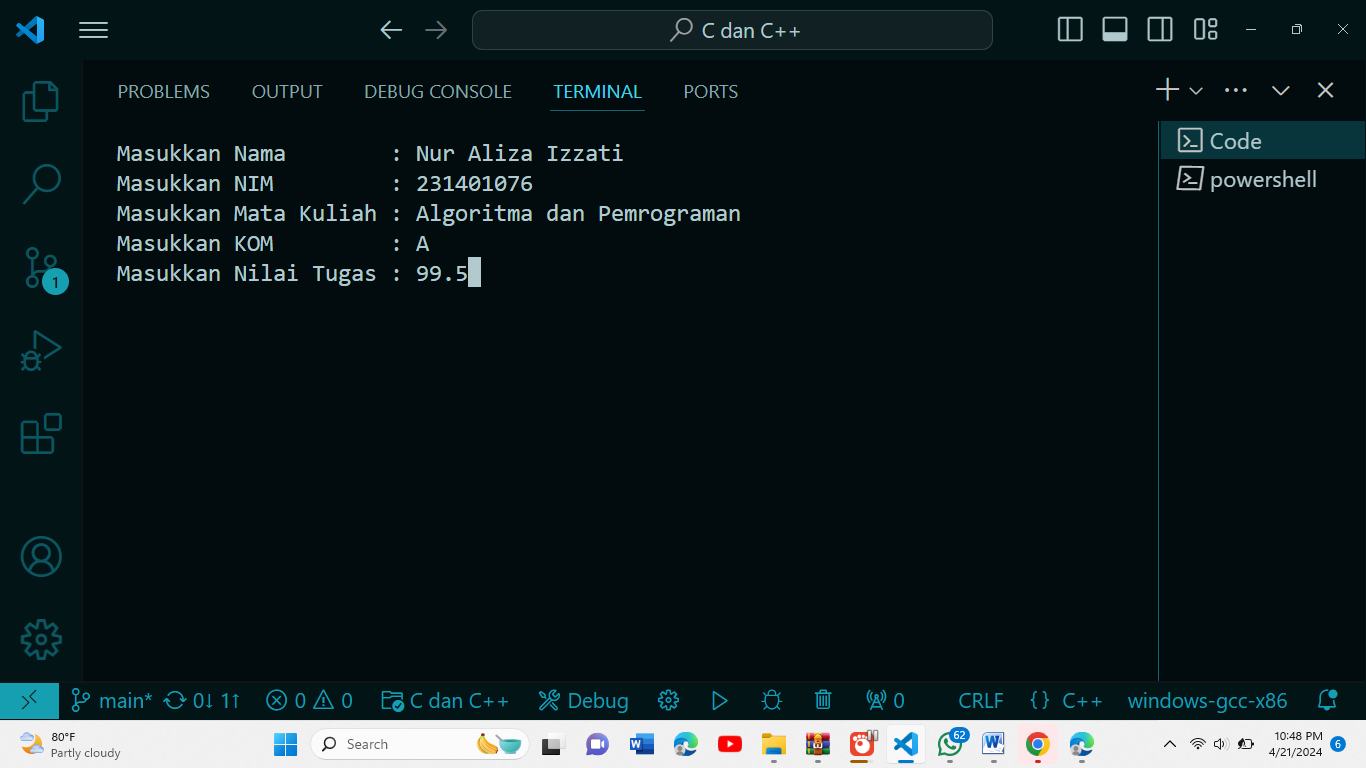
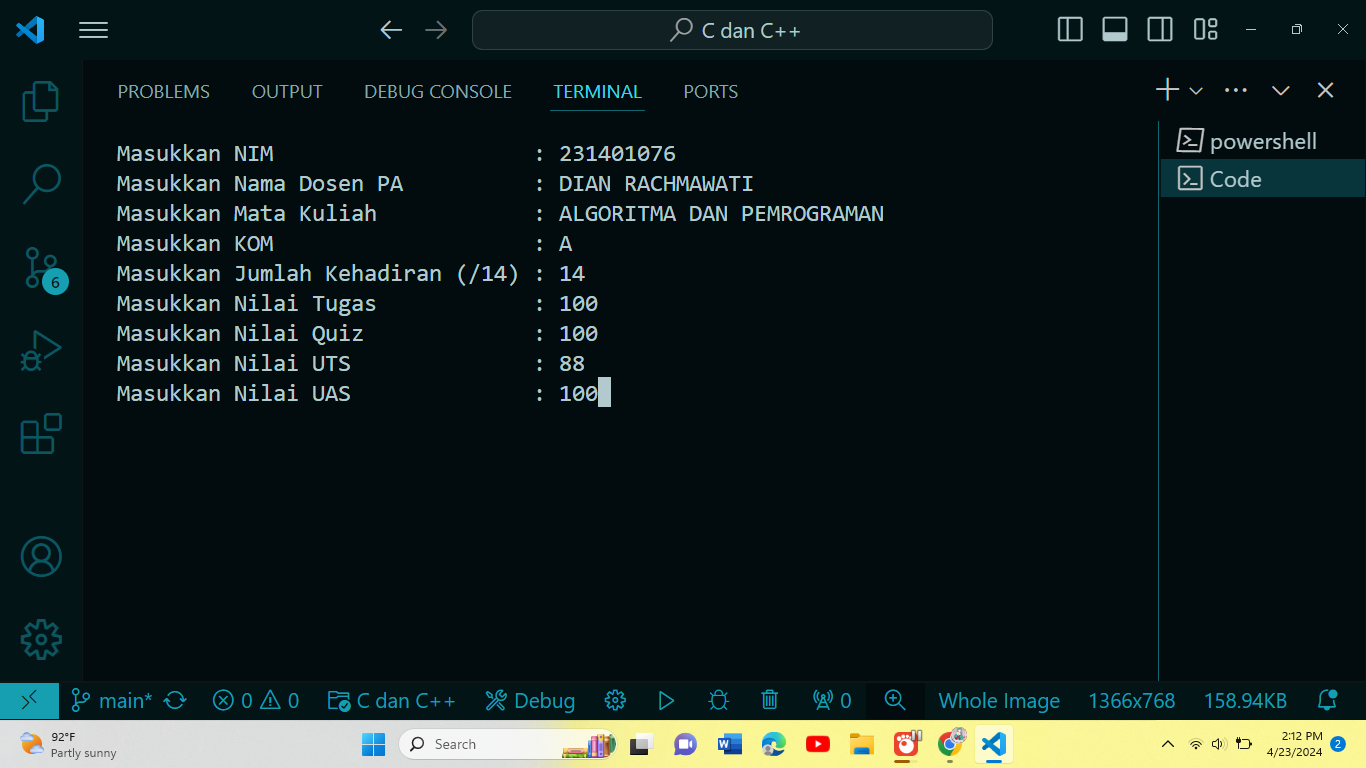
UTS_AP2_[076]

diff --git a/UTS_NO1.cpp b/UTS_NO1.cpp
@@ -4,71 +4,76 @@ using namespace std;
 
 int main()
 {
-    string nama, nilai_dalam_huruf, nim, mata_kuliah;
+    string nama, nilai_dalam_huruf, dosen_pa,  nim, mata_kuliah;
     char kom;
-    float nilai;
+    int hadir;
+    float tugas, uts, uas, quiz, nilai_akhir;
 
     system("CLS");
     //dibawah ini saya memasukkan spasi agar output yang ditampilkan rapi
     //karena faktanya, menggunakan \t tidak membuat mereka sejajar nantinya, oleh karena itu saya menggunakan spasi
-    cout << "Masukkan Nama        : "   ; getline(cin, nama); // menggunakan getline agar semua kata yang diinput bisa ditampilkan kembali
-    cout << "Masukkan NIM         : "   ; getline(cin, nim);
-    cout << "Masukkan Mata Kuliah : "   ; getline(cin, mata_kuliah);
-    cout << "Masukkan KOM         : "   ; cin >> kom;
-    cout << "Masukkan Nilai Tugas : "   ; cin >> nilai;
-
+    cout << "Masukkan Nama                   : "; getline(cin, nama); // menggunakan getline agar semua kata yang diinput bisa ditampilkan kembali
+    cout << "Masukkan NIM                    : "; getline(cin, nim);
+    cout << "Masukkan Nama Dosen PA          : "; getline(cin, dosen_pa);
+    cout << "Masukkan Mata Kuliah            : "; getline(cin, mata_kuliah);    
+    cout << "Masukkan KOM                    : "; cin >> kom;
+    cout << "Masukkan Jumlah Kehadiran (/14) : "; cin >> hadir;
+    cout << "Masukkan Nilai Tugas            : "; cin >> tugas;
+    cout << "Masukkan Nilai Quiz             : "; cin >> quiz;
+    cout << "Masukkan Nilai UTS              : "; cin >> uts;
+    cout << "Masukkan Nilai UAS              : "; cin >> uas;
+    
+    nilai_akhir = (0.15 * hadir) + (0.3 * uas) + (0.3 * uts) + (0.25 * tugas); //rumus untuk nilai akhir
+    
     //proses untuk mengubah dari nilai yang berbentuk angka kedalam huruf
-    if (nilai >= 0 && nilai <= 40)
+    if (nilai_akhir >= 0 && nilai_akhir <= 40)
     {
         nilai_dalam_huruf = "E";
     }
-    else if (nilai >= 41 && nilai <= 50)
+    else if (nilai_akhir >= 41 && nilai_akhir <= 50)
     {
         nilai_dalam_huruf = "D";
     }
-    else if  (nilai >= 51 && nilai <= 54)
+    else if  (nilai_akhir >= 51 && nilai_akhir <= 54)
     {
         nilai_dalam_huruf = "C-";
     }
-    else if (nilai >= 55 && nilai <= 59)
+    else if (nilai_akhir >= 55 && nilai_akhir <= 59)
     {
         nilai_dalam_huruf = "C";
     }
-    else if (nilai >= 60 && nilai <= 64)
+    else if (nilai_akhir >= 60 && nilai_akhir <= 64)
     {
         nilai_dalam_huruf = "C+";
     }
-    else if (nilai >= 65 && nilai <= 69)
+    else if (nilai_akhir >= 65 && nilai_akhir <= 69)
     {
         nilai_dalam_huruf = "B-";
     }
-    else if (nilai >= 70 && nilai <= 74)
+    else if (nilai_akhir >= 70 && nilai_akhir <= 74)
     {
         nilai_dalam_huruf = "B";
     }
-    else if  (nilai >= 75 && nilai <=79)
+    else if  (nilai_akhir >= 75 && nilai_akhir <= 80)
     {
         nilai_dalam_huruf = "B+";
     }
-    else if (nilai >= 80 && nilai <= 84)
-    {
-        nilai_dalam_huruf = "A-";
-    }
-    else if  (nilai >= 85 && nilai <= 100)
+    else if  (nilai_akhir >= 81 && nilai_akhir <= 100)
     {
         nilai_dalam_huruf = "A";
     }
-    else 
+    else if (nilai_akhir >= 101)
     {
-        nilai_dalam_huruf = "-"; //jika inputan yang diberikan lebih dari 100, maka program akan menampilkan "-"
+        nilai_dalam_huruf = "unvalid"; //jika inputan yang diberikan lebih dari 100, maka program akan menampilkan "-"
     }
 
     system("CLS"); // dibawah ini untuk menampilkan hasil akhir seperti yang diminta
     cout << "Nama        : " << nama              << endl;
     cout << "NIM         : " << nim               << endl;
     cout << "KOM         : " << kom               << endl;
+    cout << "Dosen PA    : " << dosen_pa          << endl;
     cout << "Mata Kuliah : " << mata_kuliah       << endl;
-    cout << "Nilai       : " << nilai_dalam_huruf << endl;
-    
+    cout << "Predikat    : " << nilai_dalam_huruf << endl;
+    cout << "Nilai Akhir : " << nilai_akhir;
     return 0;
 }

diff --git a/UTS_NO4.cpp b/UTS_NO4.cpp
@@ -1,22 +1,24 @@
 #include <iostream>
-using namespace std;
+using namespace std; // di soal hanya 'using std' seharusnya seperti disamping'
 
 int main()
 {
+    //system("CLS"); disini saya tdk memanggil clearscreen di awal.
+
     string umur; //di soal, nama variabelnya "a". Supaya lebih mudah dipahami, saya ganti variabel menjadi umur untuk menampung inputan dari user
 
     a : //label untuk kembali ke permainan jika user salah menebak umur
-    cout << "Tebak Umur Saya : "; 
-    cin >> umur;
+    cout << "Tebak Umur Saya : "; //di soal ga ada titik koma (';')
+    cin >> umur; //di soal, tanda nya terbalik '<<' seharusnya '>>'
     system("CLS"); //untuk membersihkan layar agar tidak terlalu penuh jika user melakukan 271 T percobaan
 
-    if (umur == "20")
+    if (umur == "20") //karena tipe data umur berupa string, maka harus pake petik dua (" ")
     {
         cout << umur <<  "\nJawaban anda benar!!\n";
     }
-    else 
+    else //lebih efektif menggunakan else daripada else if
     {
-        cout << umur << "\nJawaban anda salah. Coba lagi..\n";
+        cout << umur << "\nJawaban anda salah. Coba lagi..\n"; //di soal tidak ada titik koma (;) dan 'endl' saya ubah menjadi '\n'
         goto a;
     }
 
